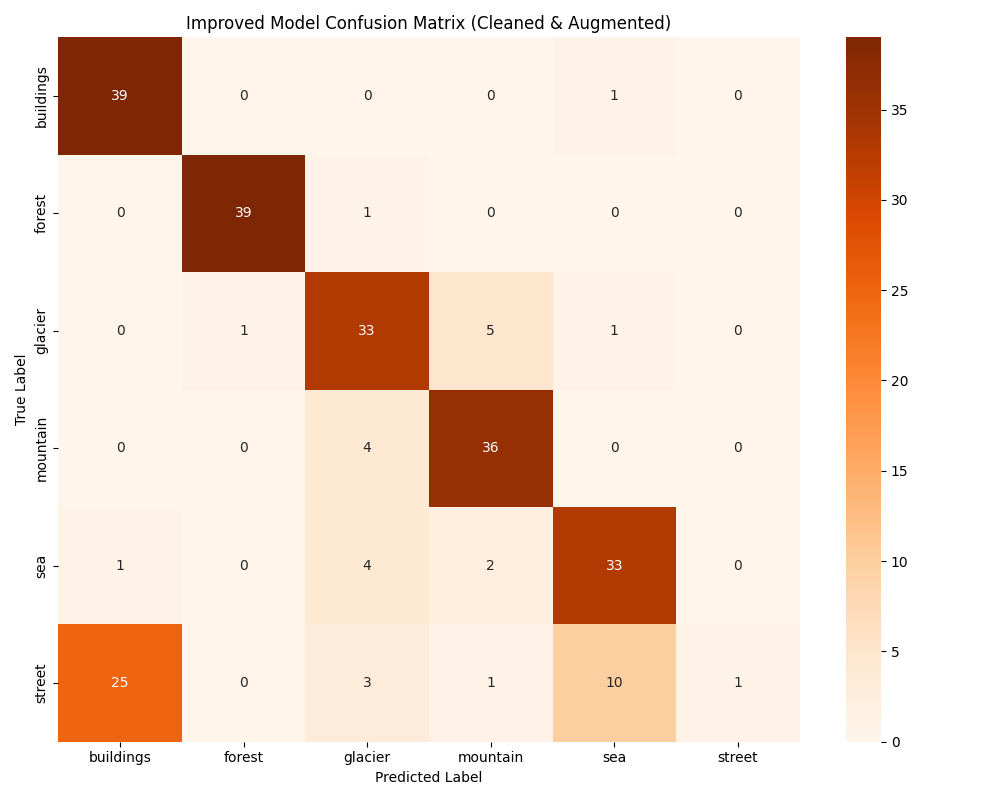
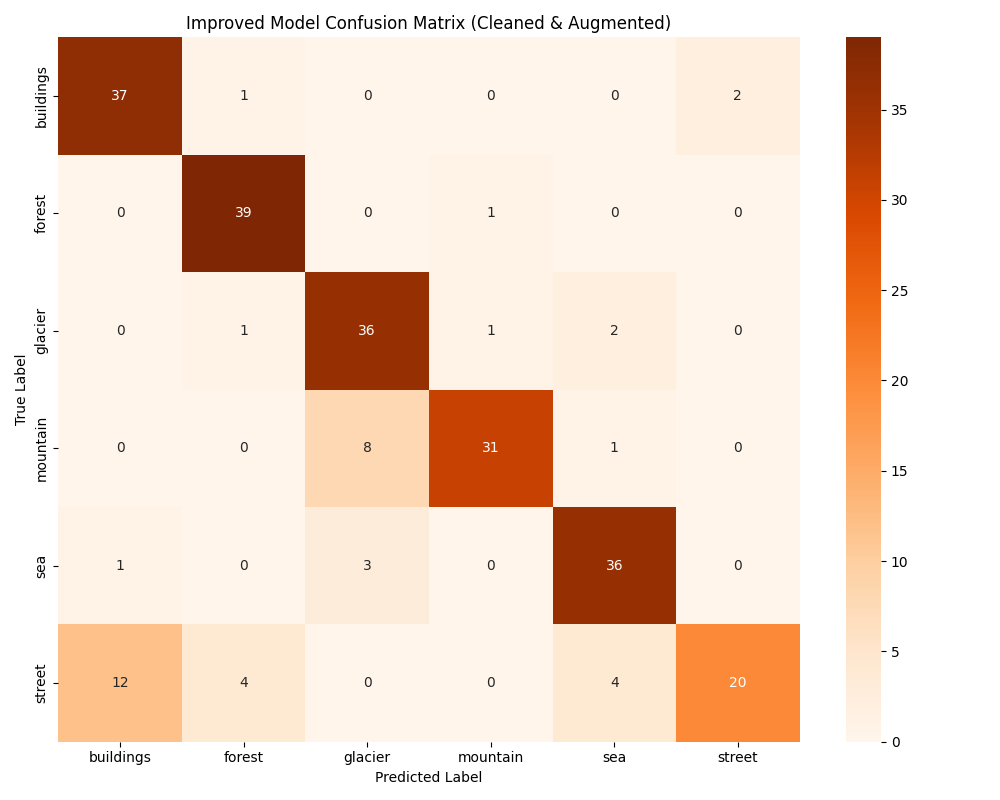
Completed assignment

Changed region(s): [[0.279, 0.3125, 0.806, 0.9375], [0.031, 0.7812, 0.186, 0.9375]]

diff --git a/evaluation/comparison_table.md b/evaluation/comparison_table.md
@@ -1,0 +1,12 @@
+# Model Performance Comparison
+
+| Metric | Baseline | Improved |
+|--------|----------|----------|
+| Accuracy | 71.67% | 82.92% |
+| Macro F1 | 0.6902 | 0.8216 |
+| buildings F1 | 0.7317 | 0.8222 |
+| forest F1 | 0.8211 | 0.9176 |
+| glacier F1 | 0.7595 | 0.8276 |
+| mountain F1 | 0.7368 | 0.8493 |
+| sea F1 | 0.7250 | 0.8675 |
+| street F1 | 0.3673 | 0.6452 |